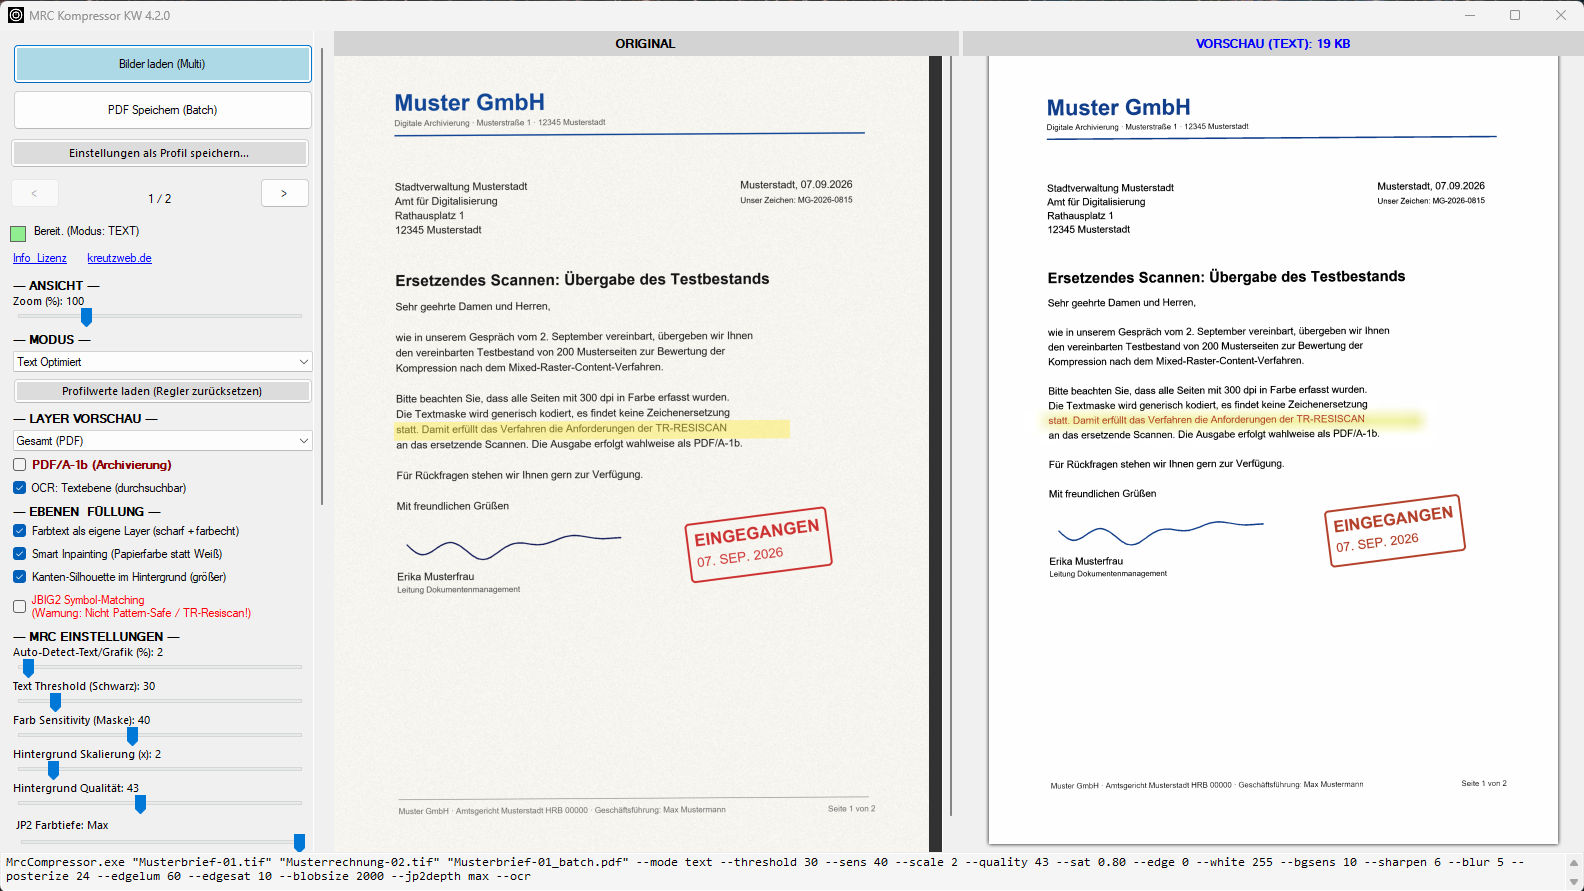
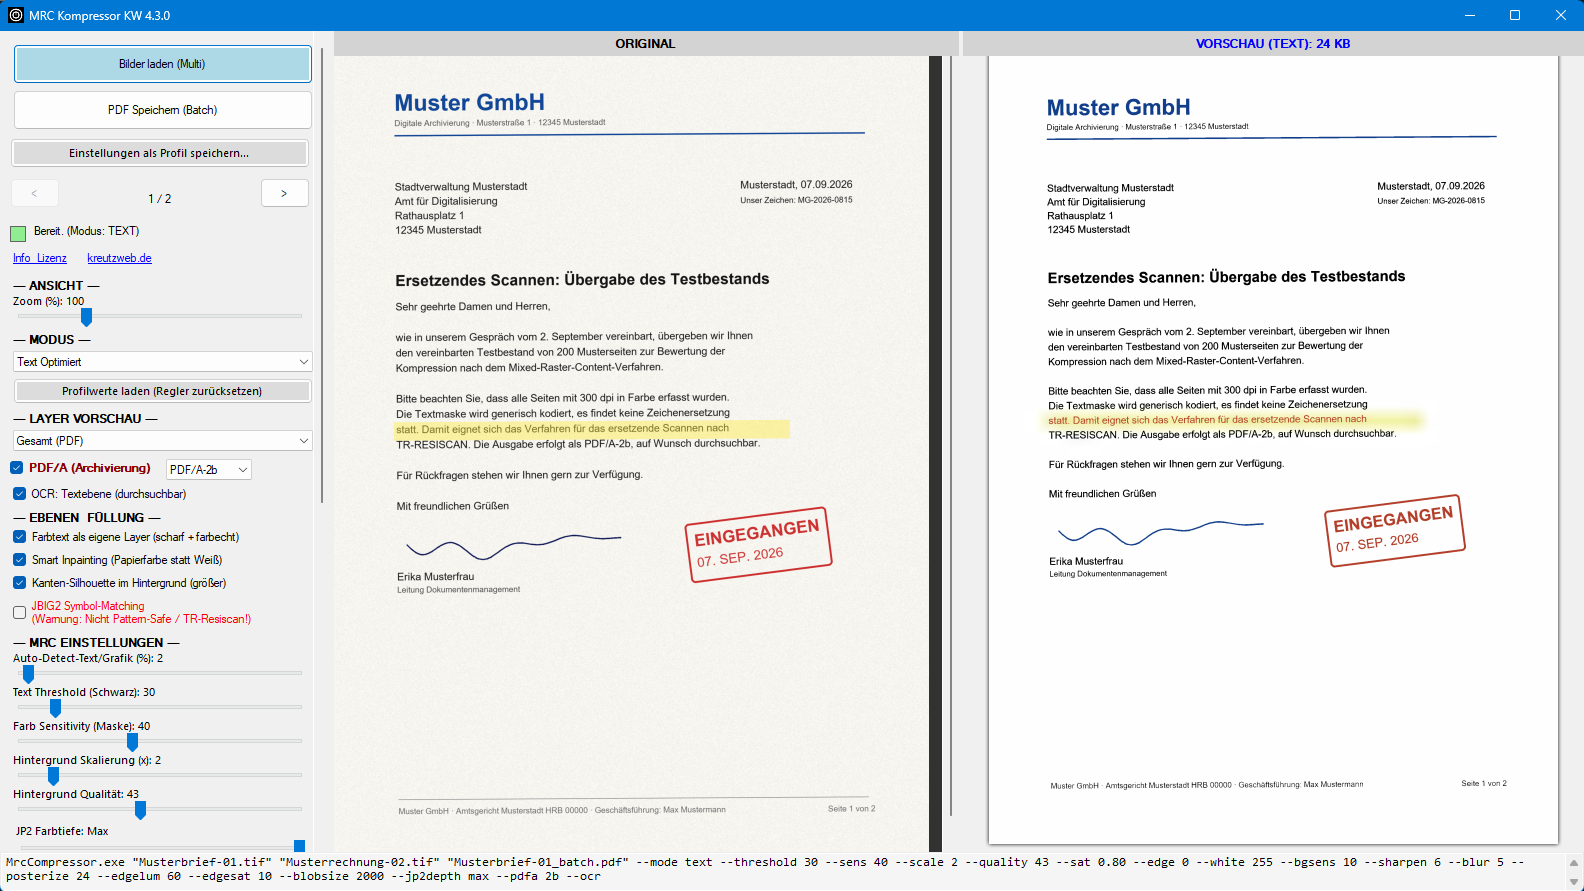
README: version 4.3.0 - PDF/A levels 1b to 4, PDF as input
Selectable PDF/A level (default 2b), PDF files as input (existing text,
links and bookmarks are kept), new screenshot of 4.3.0 (fictitious
sample scans).

diff --git a/README.de.md b/README.de.md
@@ -1,6 +1,6 @@
 # MRC PDF Kompressor — gescannte Dokumente in winzige, scharfe PDFs (Windows)
 
-Ein kostenloses Windows-Programm, das gescannte Seiten (TIFF, JPEG, PNG) mit
+Ein kostenloses Windows-Programm, das gescannte Seiten (TIFF, JPEG, PNG oder PDF) mit
 **Mixed Raster Content (MRC)** in extrem kompakte PDF-Dateien verwandelt —
 typisch **90–95 % kleiner** als der Original-Scan, bei gestochen scharfem Text.
 Standardmäßig pattern-safe (keine JBIG2-Zeichenersetzung), damit geeignet für
@@ -34,11 +34,15 @@ Privatpersonen und kleine Unternehmen kostenlos.
 - **Smart Inpainting & Background Bleaching**: der Hintergrund hinter dem Text
   wird mit der echten Papierfarbe rekonstruiert, Grauschleier und
   Durchscheinen entfernt — keine Halos, kleinere Dateien
-- **PDF/A-1b** für die Langzeitarchivierung (ISO 19005-1), geprüft mit veraPDF
+- **PDF/A-1b bis PDF/A-4** für die Langzeitarchivierung (ISO 19005; Stufen 1b, 2b, 2u, 3b,
+  3u, 4), jede Stufe geprüft mit veraPDF – ab PDF/A-2 (Standard: 2b) bleibt der Hintergrund
+  JPEG 2000, die Datei so klein wie ohne PDF/A
 - **Durchsuchbar per OCR (optional)**: die integrierte Texterkennung legt eine
   unsichtbare, wortgenaue Textebene über die Seite — Volltextsuche, Markieren
   und Kopieren; läuft lokal ohne Cloud (PaddleOCR-Modelle auf ONNX Runtime),
   auch zusammen mit PDF/A, rund 6 KB je Seite
+- **PDF als Eingabe**: Scan-PDFs (Kopierer, Scanner) und digitale PDFs werden zu
+  kleinen, durchsuchbaren PDF/A; vorhandener Text, Links und Lesezeichen bleiben erhalten
 - **Mehrseitige TIFFs**, Ordner und Wildcards als Eingabe, parallele
   Seitenverarbeitung auf Mehrkern-CPUs
 - **Split-View-Oberfläche** mit Echtzeit-Vorschau (Original vs. Ergebnis),
@@ -87,7 +91,8 @@ fehlende Laufzeiten auf Wunsch nach.
 ## Kommandozeile
 
 ```
-MrcCompressor.exe "Scan01.tif" "Archiv01.pdf" --mode text --pdfa --ocr
+MrcCompressor.exe "Scan01.tif" "Archiv01.pdf" --mode text --pdfa 2u --ocr
+MrcCompressor.exe Kopierer.pdf --pdfa --ocr
 MrcCompressor.exe "Scan02.tif" "Archiv02.pdf" --profile "Mein Archivprofil"
 MrcCompressor.exe C:\Scans\*.tif Stapel.pdf --mode auto
 MrcCompressor.exe --help
@@ -96,7 +101,7 @@ MrcCompressor.exe --help
 | Option | Bedeutung |
 |---|---|
 | `--mode auto\|text\|image\|text2\|image2` | Verarbeitungsstrategie (Automatik erkennt Text- vs. Grafikseiten) |
-| `--pdfa` | PDF/A-1b-Ausgabe |
+| `--pdfa [stufe]` | PDF/A-Ausgabe, Stufe 2b (Standard), 1b, 2u, 3b, 3u oder 4 |
 | `--ocr` | unsichtbare Textebene (durchsuchbare PDF) per Texterkennung |
 | `--profile "Name"` / `--profiles` | eigenes Profil aufrufen / alle Profile auflisten |
 | `--threshold 0-255` | Empfindlichkeit der Texterkennung |

diff --git a/README.md b/README.md
@@ -1,6 +1,6 @@
 # MRC PDF Kompressor — scanned documents into tiny, sharp PDFs (Windows)
 
-A free Windows program that turns scanned pages (TIFF, JPEG, PNG) into extremely
+A free Windows program that turns scanned pages (TIFF, JPEG, PNG or PDF) into extremely
 compact PDF files using **Mixed Raster Content (MRC)** — typically **90–95 % smaller**
 than the original scan, with text that stays crisp. Pattern-safe by default (no
 JBIG2 symbol substitution), so the method is suitable for replacement scanning
@@ -33,11 +33,15 @@ the same legibility — and is free for private individuals and small businesses
 - **Smart inpainting & background bleaching**: the background behind the text
   is reconstructed with the real paper colour, grey haze and show-through are
   removed — no halos, smaller files
-- **PDF/A-1b** output for long-term archiving (ISO 19005-1), validated with veraPDF
+- **PDF/A-1b to PDF/A-4** output for long-term archiving (ISO 19005; levels 1b, 2b, 2u, 3b,
+  3u, 4), each validated with veraPDF – from PDF/A-2 on (default: 2b) the background stays
+  JPEG 2000, the file as small as without PDF/A
 - **Searchable via OCR (optional)**: built-in text recognition places an
   invisible, word-accurate text layer over the page — full-text search,
   selecting and copying; runs locally without a cloud service (PaddleOCR
   models on ONNX Runtime), also together with PDF/A, around 6 KB per page
+- **PDF as input**: scanned PDFs (copiers, scanners) and digital PDFs become small,
+  searchable PDF/A; existing text, links and bookmarks are kept
 - **Multi-page TIFF**, folders and wildcards as input, parallel page
   processing on multi-core CPUs
 - **Split-view GUI** with live preview (original vs. result), synchronised
@@ -87,7 +91,8 @@ missing runtimes on request.
 ## Command line
 
 ```
-MrcCompressor.exe "Scan01.tif" "Archive01.pdf" --mode text --pdfa --ocr
+MrcCompressor.exe "Scan01.tif" "Archive01.pdf" --mode text --pdfa 2u --ocr
+MrcCompressor.exe Copier.pdf --pdfa --ocr
 MrcCompressor.exe "Scan02.tif" "Archive02.pdf" --profile "My archive profile"
 MrcCompressor.exe C:\Scans\*.tif Batch.pdf --mode auto
 MrcCompressor.exe --help
@@ -96,7 +101,7 @@ MrcCompressor.exe --help
 | Option | Meaning |
 |---|---|
 | `--mode auto\|text\|image\|text2\|image2` | processing strategy (auto-detects text vs. graphic pages) |
-| `--pdfa` | PDF/A-1b output |
+| `--pdfa [level]` | PDF/A output, level 2b (default), 1b, 2u, 3b, 3u or 4 |
 | `--ocr` | invisible text layer (searchable PDF) via text recognition |
 | `--profile "Name"` / `--profiles` | run a custom profile / list all profiles |
 | `--threshold 0-255` | text detection sensitivity |
